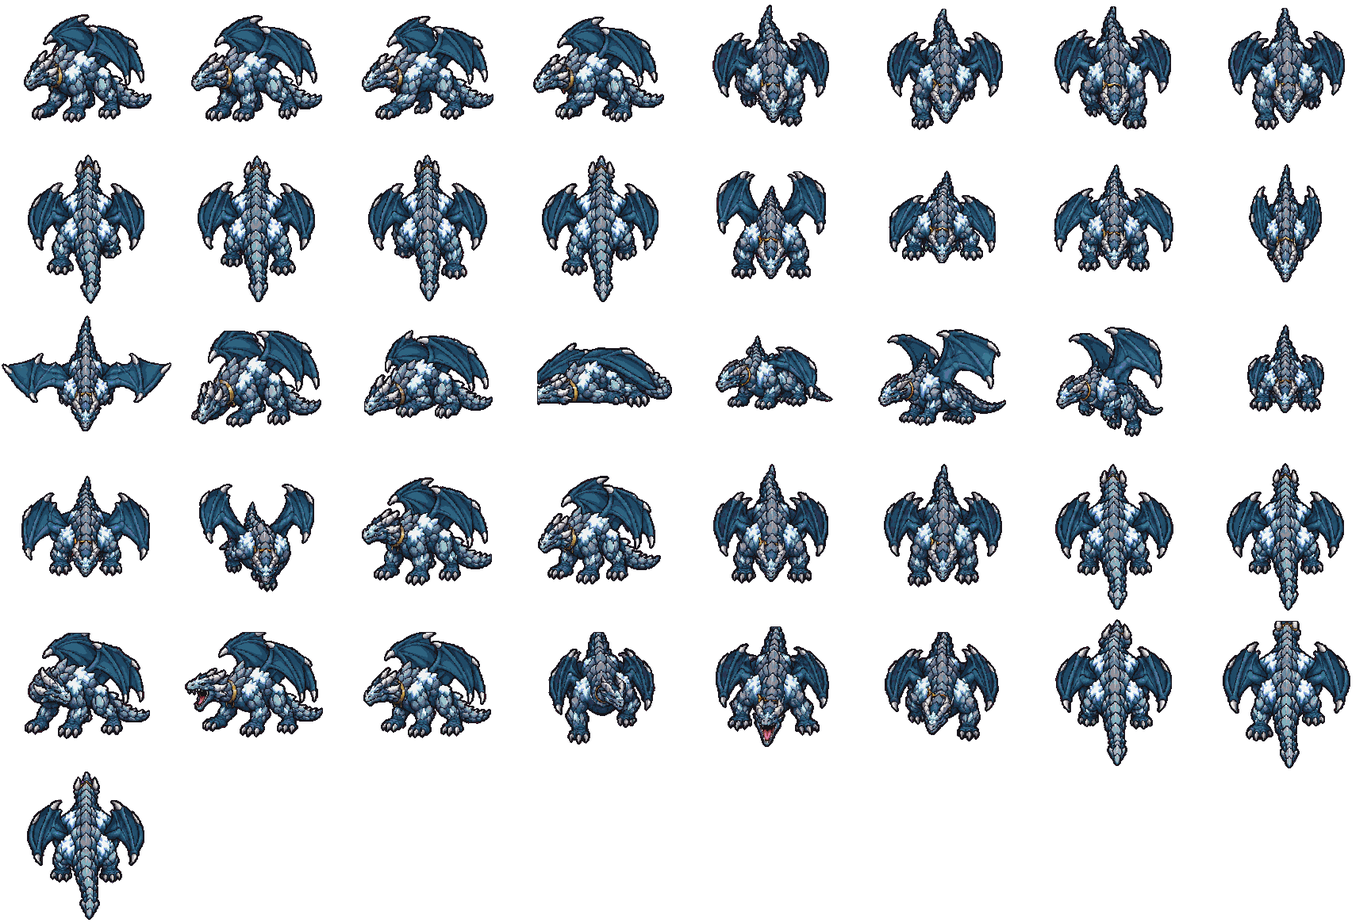
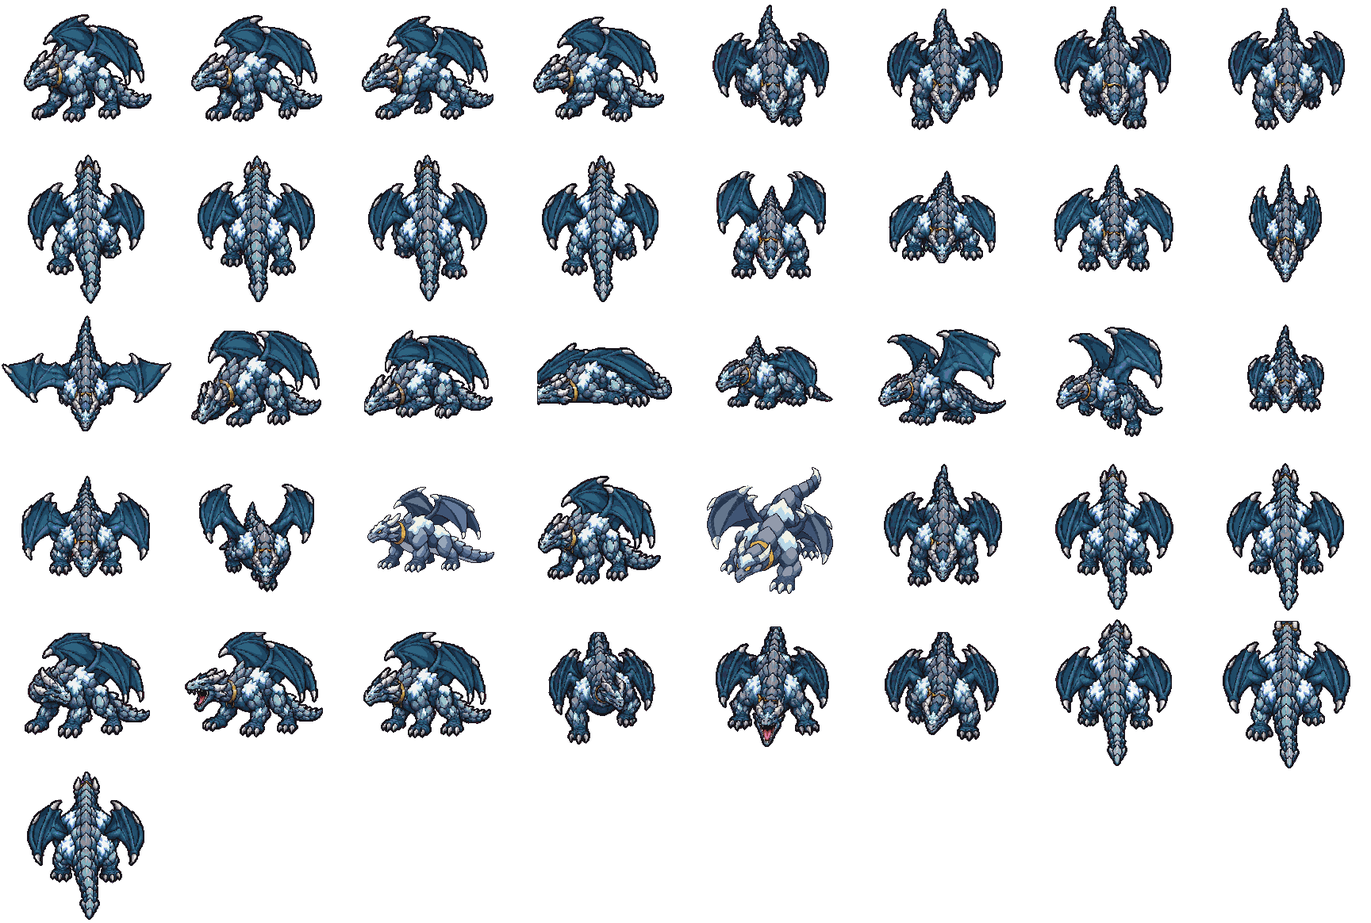
Targi Lublin od grafika (hala z rzeźbą smoka na D20 i obracającymi się szyldami), uproszczone klatki smoka górskiego (stoi bok/przód), anomalie pogodowe 7 km od centrum (piorun, słońce, wichura, komunikaty); poprawki efektu gór z paczki
Claude-Session: https://claude.ai/code/session_0186B56UngdyZ3nbG8b67Ype

Changed region(s): [[0.5, 0.4948, 0.625, 0.6495], [0.25, 0.5258, 0.375, 0.6495]]

diff --git a/src/scenes/Anomalia.ts b/src/scenes/Anomalia.ts
@@ -1,0 +1,110 @@
+import Phaser from 'phaser';
+import { TEX } from '../art';
+import { SKALA_POSTACI } from '../skala';
+import { ANOMALIA as A } from '../content/anomalia';
+import { weather } from '../weather';
+import { grzmot } from '../sfx';
+import { session } from '../quests';
+import type { CityMap } from '../map/CityMap';
+import type { DialogRequest } from './GameScene';
+
+// Anomalie pogodowe (content/anomalia.ts): fires once per login when the hero walks out past A.odKm from the centre.
+// The picture effects are HTML layers and a CSS filter on the game canvas, so the HUD isn't touched by the filter.
+
+/** Login (session nonce) it already fired in. */
+let byloW = -1;
+
+function km(a: { lat: number; lon: number }, b: { lat: number; lon: number }) {
+  const R = 6371, r = Math.PI / 180;
+  const dLat = (b.lat - a.lat) * r, dLon = (b.lon - a.lon) * r;
+  const h = Math.sin(dLat / 2) ** 2 + Math.cos(a.lat * r) * Math.cos(b.lat * r) * Math.sin(dLon / 2) ** 2;
+  return 2 * R * Math.asin(Math.sqrt(h));
+}
+
+export class Anomalia {
+  busy = false;
+  private prev = NaN;
+  private next = 0;
+
+  constructor(private scene: Phaser.Scene, private city: CityMap, private host: { player: Phaser.GameObjects.Sprite; dialog: (r: DialogRequest) => void }) {}
+
+  update(now: number, wolno: boolean) {
+    if (this.busy || now < this.next || byloW === session.nonce) return;
+    this.next = now + 1000;
+    const p = this.host.player;
+    const d = km(this.city.toLatLon(p.x, p.y), A.srodek);
+    const before = this.prev;
+    this.prev = d;
+    // Walking out across the line (a ride or a login far away doesn't count).
+    if (!wolno || Number.isNaN(before) || before >= A.odKm || d < A.odKm || d - before > 1) return;
+    byloW = session.nonce;
+    this.play();
+  }
+
+  /** For tests: play it now. */
+  play() {
+    this.busy = true;
+    const sc = this.scene, p = this.host.player;
+    p.anims.stop();
+    const ex = sc.add.image(p.x, p.y - 24 * SKALA_POSTACI, TEX.exclaim).setDepth(1_300_000);
+    sc.tweens.add({ targets: ex, y: ex.y - 3, duration: 250, yoyo: true, repeat: -1 });
+    const looks: [string, boolean][] = [['side-0', false], ['side-0', true], ['up-0', false], ['down-0', false]];
+    looks.forEach(([f, flip], i) => sc.time.delayedCall(300 + i * 500, () => p.setFrame(f).setFlipX(flip)));
+    const canvas = sc.game.canvas;
+    const warstwa = (css: string) => {
+      const el = document.createElement('div');
+      el.style.cssText = `position:fixed;inset:0;pointer-events:none;z-index:4;opacity:0;${css}`;
+      document.body.append(el);
+      return el;
+    };
+    const ciemno = warstwa('background:#05070d;transition:opacity 1.2s;');
+    const biel = warstwa('background:#fff;');
+    const slonce = warstwa('background:radial-gradient(circle at 70% 20%, rgba(255,236,170,0.55), rgba(255,214,120,0.18) 60%, rgba(255,200,90,0.08));transition:opacity 1s;');
+    const at = (ms: number, f: () => void) => sc.time.delayedCall(ms, f);
+    // 1) The sky goes dark.
+    at(500, () => (ciemno.style.opacity = '0.62'));
+    // 2) Lightning: the picture suddenly black and white, a white flash, black, white again; thunder.
+    at(2000, () => {
+      grzmot();
+      sc.cameras.main.shake(260, 0.006);
+      canvas.style.filter = 'grayscale(1) contrast(3.2) brightness(1.5)';
+      ciemno.style.transition = 'none';
+      ciemno.style.opacity = '0';
+      biel.style.opacity = '0.9';
+    });
+    at(2090, () => (biel.style.opacity = '0'));
+    at(2170, () => (canvas.style.filter = 'grayscale(1) contrast(4) brightness(0.35)'));
+    at(2280, () => ((biel.style.opacity = '0.7'), (canvas.style.filter = 'grayscale(1) contrast(3.2) brightness(1.6)')));
+    at(2380, () => (biel.style.opacity = '0'));
+    // 3) At once the sun.
+    at(2650, () => {
+      canvas.style.transition = 'filter 0.8s';
+      canvas.style.filter = 'brightness(1.22) saturate(1.35)';
+      slonce.style.opacity = '1';
+    });
+    // 4) A moment of the strongest wind (trees, steam and clouds follow weather.wind).
+    const wiatr = weather.wind;
+    at(4200, () => {
+      weather.wind = A.wichura;
+      slonce.style.opacity = '0.4';
+      canvas.style.filter = 'brightness(1.05) saturate(1.1)';
+    });
+    // 5) Calm: back to the real weather.
+    at(6800, () => {
+      weather.wind = wiatr;
+      slonce.style.opacity = '0';
+      canvas.style.filter = '';
+    });
+    at(7900, () => {
+      canvas.style.transition = '';
+      for (const el of [ciemno, biel, slonce]) el.remove();
+      ex.destroy();
+      this.host.dialog({
+        title: A.tytul,
+        text: A.tekst,
+        buttons: [A.przycisk],
+        onChoose: () => this.host.dialog({ title: 'Exp-lore', text: A.drugi, buttons: [A.drugiPrzycisk], onChoose: () => (this.busy = false) }),
+      });
+    });
+  }
+}

diff --git a/src/map/Zabytki.ts b/src/map/Zabytki.ts
@@ -26,6 +26,8 @@ interface Stoi {
   dol: number;
   /** Per picture column: the map y of its lowest painted pixel (−Infinity: an empty column). */
   podstawa: Float32Array;
+  /** Layers on the landmark (sculptures, turning signs), drawn just above it and faded with it. */
+  warstwy: { im: Phaser.GameObjects.Image; klatki: number; fps: number; faza: number }[];
 }
 
 /** px generatora szkieletu na metr (2 na punkt mapy przy 1,92 punktu na metr). */
@@ -87,9 +89,37 @@ export class Zabytki {
     const im = this.scene.add.image(x0, y0, key).setOrigin(0, 0).setScale(f).setDepth(dol);
     const podstawa = new Float32Array(w).fill(-Infinity);
     for (let i = 0; i < w; i++) for (let j = h - 1; j >= 0; j--) if (maska[j * w + i]) { podstawa[i] = y0 + (j + 1) * f; break; }
-    this.stoja.push({ z, im, maska, w, h, f, cx, cy, x0, y0, dol, podstawa });
+    const st: Stoi = { z, im, maska, w, h, f, cx, cy, x0, y0, dol, podstawa, warstwy: [] };
+    this.stoja.push(st);
+    this.warstwy(st);
     // Kawałki pod zabytkiem malujemy jeszcze raz – już bez zwykłego bloku z generatora.
     for (let x = x0; x <= x0 + w * f + 64; x += 64) for (let y = y0; y <= y0 + h * f + 64; y += 64) this.view.redrawAround(x, y);
+  }
+
+  /** Loads and places the landmark's layers (Zabytek.warstwy); animated sheets get their frames cut once. */
+  private warstwy(s: Stoi) {
+    for (const [n, w] of (s.z.warstwy ?? []).entries()) {
+      const key = `zabytek-${s.z.id}-w${n}`;
+      const put = () => {
+        if (!this.scene.sys.isActive() && !this.scene.sys.isPaused()) return;
+        const tex = this.scene.textures.get(key);
+        tex.setFilter(Phaser.Textures.FilterMode.NEAREST);
+        const src = tex.getSourceImage() as HTMLImageElement;
+        let klatki = 1;
+        if (w.klatka) {
+          klatki = Math.max(1, Math.floor(src.width / w.klatka));
+          for (let i = 0; i < klatki; i++) if (!tex.has(`k${i}`)) tex.add(`k${i}`, 0, i * w.klatka, 0, w.klatka, src.height);
+        }
+        const im = this.scene.add.image(s.x0 + w.x * s.f, s.y0 + w.y * s.f, key, w.klatka ? 'k0' : undefined).setOrigin(0, 0).setScale(s.f).setDepth(s.im.depth + 0.01);
+        s.warstwy.push({ im, klatki, fps: w.fps ?? 8, faza: w.faza ?? 0 });
+      };
+      if (this.scene.textures.exists(key)) put();
+      else {
+        this.scene.load.image(key, w.plik);
+        this.scene.load.once(`filecomplete-image-${key}`, put);
+        this.scene.load.start();
+      }
+    }
   }
 
   /**
@@ -118,7 +148,13 @@ export class Zabytki {
 
   /** Bohater za zabytkiem (stopy na północ od jego podstawy, na jego obrazie): obraz przejrzysty. */
   update(hx: number, hy: number) {
+    const t = performance.now() / 1000;
     for (const s of this.stoja) {
+      for (const w of s.warstwy) {
+        if (w.klatki > 1) w.im.setFrame(`k${Math.floor(t * w.fps + w.faza) % w.klatki}`);
+        if (w.im.depth !== s.im.depth + 0.01) w.im.setDepth(s.im.depth + 0.01);
+        if (w.im.alpha !== s.im.alpha) w.im.setAlpha(s.im.alpha);
+      }
       const i = Math.floor((hx - s.x0) / s.f), j = Math.floor((hy - 6 - s.y0) / s.f);
       const kol = i >= 0 && i < s.w ? s.podstawa[i] : -Infinity;
       // In front of the wall in this column (owner 7.10.2026: „zamek niepotrzebnie znika” when walking past its south

diff --git a/src/scenes/GameScene.ts b/src/scenes/GameScene.ts
@@ -89,6 +89,7 @@ import { rideMs, rideText, serverNow, showJourney, syncClock } from '../journey'
 import { SEN } from '../content/demo';
 import { weather, loadWeather, tickWeather, weatherLabel, isWet } from '../weather';
 import { WPLYW_NA_POTWORY, WODNIK, POGODA } from '../content/pogoda';
+import { Anomalia } from './Anomalia';
 import { WeatherFx } from './WeatherFx';
 
 const HEART_DROP_CHANCE = 0.25;
@@ -474,6 +475,8 @@ export class GameScene extends Phaser.Scene {
     this.duelHp = null;
     this.duelCarry = 0;
     this.storyPlace = null;
+    this.anomalia = new Anomalia(this, this.city, { player: this.player, dialog: (r) => this.dialog(r) });
+    (window as unknown as { __anomalia?: Anomalia }).__anomalia = this.anomalia;
     this.story = new Story(this, this.city, {
       player: this.player,
       dialog: (req) => this.dialog(req),
@@ -729,7 +732,7 @@ export class GameScene extends Phaser.Scene {
     if (this.lingerUntil && !lingering) this.endLinger();
     const kd = keyboardDir();
     const moving = kd.x !== 0 || kd.y !== 0;
-    if (lingering || this.story.busy || this.demoRun?.busy) this.player.move(0, 0, now);
+    if (lingering || this.story.busy || this.demoRun?.busy || this.anomalia?.busy) this.player.move(0, 0, now);
     else this.player.move(moving ? kd.x : touchInput.x, moving ? kd.y : touchInput.y, now);
     if (this.player.vel.x || this.player.vel.y) {
       // What the ground is (content/podloze.ts): roads full speed, paths, grass, forest, sand slower.
@@ -766,6 +769,7 @@ export class GameScene extends Phaser.Scene {
     this.moveActor(this.player, dt);
     session.stats.m += Math.hypot(this.player.x - bx, this.player.y - by) / PX_PER_M;
     this.story.update(dt, this.player.x !== bx || this.player.y !== by);
+    if (!demo.on) this.anomalia?.update(now, this.player.x !== bx || this.player.y !== by);
     // Hiding in the bushes: see-through under trees.
     const hidden = this.city.areaKindsAt(this.player.x, this.player.y + FEET.dy).some((k) => HIDE_IN.has(k));
     // Protected after a fresh start: the hero blinks.
@@ -780,7 +784,7 @@ export class GameScene extends Phaser.Scene {
       this.toast('Dodatkowe serduszko z mikstury znikło.', 2000);
       this.emitHud();
     }
-    if (consumeAttack() && !lingering && !this.story.busy && !this.demoRun?.busy) {
+    if (consumeAttack() && !lingering && !this.story.busy && !this.demoRun?.busy && !this.anomalia?.busy) {
       // A mouse click swings towards where it clicked (the hero turns there).
       this.clickWorld = null;
       if (attackAim) {
@@ -1865,6 +1869,7 @@ export class GameScene extends Phaser.Scene {
   }
 
   private pociagi?: Pociagi;
+  private anomalia?: Anomalia;
   /** Where the last mouse click landed in the world (null for taps and keys). */
   private clickWorld: { x: number; y: number } | null = null;
 

diff --git a/src/content/zabytki.ts b/src/content/zabytki.ts
@@ -22,6 +22,11 @@ export interface Zabytek {
   sciany: number;
   /** Przezroczystość, gdy bohater stoi za zabytkiem. */
   przeswit: number;
+  /**
+   * Warstwy na budynku (rzeźby, obracające się szyldy): plik, lewy-górny róg względem obrazu (px obrazu), dla animacji
+   * szerokość klatki (arkusz poziomy), klatek na sekundę i przesunięcie fazy (klatki).
+   */
+  warstwy?: { plik: string; x: number; y: number; klatka?: number; fps?: number; faza?: number }[];
 }
 
 export const ZABYTKI: Zabytek[] = [
@@ -48,5 +53,24 @@ export const ZABYTKI: Zabytek[] = [
     przesun: [-9, -57],
     sciany: 0,
     przeswit: 0.35,
+  },
+  {
+    // Targi Lublin (Dworcowa 11), hale A, B, C (paczka „targi_lublin_i_smok” 7.10.2026): obraz dokładnie na masce szkieletu
+    // (ściany w dół o 16 px i w prawo o 0,35 – podniesiony jak zamek); na dachu rzeźba smoka na złotej kości D20
+    // i trzy obracające się szyldy (StarFest, Targi, D20), 12 klatek po 64 px, 8 kl./s, fazy 0/4/8.
+    id: 'targi_lublin',
+    mapa: 'lublin',
+    budynek: 'Hala C',
+    plik: 'swiat/zabytki/targi/targi_lublin.png',
+    naMapie: [14618, 12954.5],
+    przesun: [-5.6, -16],
+    sciany: 0,
+    przeswit: 0.35,
+    warstwy: [
+      { plik: 'swiat/zabytki/targi/rzezba_smok_d20.png', x: 319, y: 203 },
+      { plik: 'swiat/zabytki/targi/obrot_starfest_12klatek.png', x: 152, y: 70, klatka: 64, fps: 8, faza: 0 },
+      { plik: 'swiat/zabytki/targi/obrot_targi_12klatek.png', x: 663, y: 64, klatka: 64, fps: 8, faza: 4 },
+      { plik: 'swiat/zabytki/targi/obrot_d20_12klatek.png', x: 433, y: 328, klatka: 64, fps: 8, faza: 8 },
+    ],
   },
 ];

diff --git a/src/sfx.ts b/src/sfx.ts
@@ -58,3 +58,32 @@ export function pipe(freq: number, ms = 420) {
   o.start(t);
   o.stop(t + ms / 1000 + 0.05);
 }
+
+/** A thunderclap: a burst of low, rumbling noise that cracks first and rolls away. */
+export function grzmot() {
+  const a = audio();
+  if (!a) return;
+  const t = a.currentTime;
+  const len = 2.6;
+  const buf = a.createBuffer(1, Math.floor(a.sampleRate * len), a.sampleRate);
+  const d = buf.getChannelData(0);
+  let last = 0;
+  for (let i = 0; i < d.length; i++) {
+    // Brown-ish noise: random steps, smoothed, louder at the crack.
+    last = (last + (Math.random() * 2 - 1) * 0.08) * 0.985;
+    d[i] = last * 6;
+  }
+  const src = a.createBufferSource();
+  src.buffer = buf;
+  const lp = a.createBiquadFilter();
+  lp.type = 'lowpass';
+  lp.frequency.setValueAtTime(1800, t);
+  lp.frequency.exponentialRampToValueAtTime(160, t + 0.6);
+  const gain = a.createGain();
+  gain.gain.setValueAtTime(0.0001, t);
+  gain.gain.exponentialRampToValueAtTime(0.5, t + 0.03);
+  gain.gain.exponentialRampToValueAtTime(0.0001, t + len);
+  src.connect(lp).connect(gain).connect(a.destination);
+  src.start(t);
+  src.stop(t + len);
+}

diff --git a/src/content/anomalia.ts b/src/content/anomalia.ts
@@ -1,0 +1,14 @@
+// Anomalie pogodowe (właściciel 7.10.2026): gdy bohater odejdzie dalej niż `odKm` od skrzyżowania Głębokiej z Muzyczną
+// (środek Lublina), raz na wejście do gry: „!”, ściemnienie, piorun (ekran nagle czarno-biały), słońce, chwila wichury
+// i powrót do prawdziwej pogody – potem dwa komunikaty.
+export const ANOMALIA = {
+  srodek: { lat: 51.23905, lon: 22.55227 },
+  odKm: 7,
+  tytul: '❗ Anomalie pogodowe',
+  tekst: 'Anomalie pogodowe... Chyba lepiej wrócić do miasta.',
+  przycisk: 'Hmm…',
+  drugi: 'Gra jest wciąż w przygotowaniu. Exp-loruj śmiało, ale poza Lublinem zadań jest na razie znacznie mniej.',
+  drugiPrzycisk: 'Rozumiem',
+  /** Wiatr podczas wichury (m/s). */
+  wichura: 24,
+};

diff --git a/scripts/smok-podmien.py b/scripts/smok-podmien.py
@@ -1,0 +1,32 @@
+#!/usr/bin/env python3
+"""Wkleja uproszczone klatki smoka górskiego od grafika (zamówienie 20, już w rozmiarze gry: 220×200 na magencie)
+w arkusz public/swiat/smoki/smok_gorski.png w miejsce klatek o tych samych nazwach, z tym samym zaczepieniem co reszta
+(środek masy sylwetki w punkcie `srodek` komórki). Uruchamiać po scripts/smok-gorski.py (który odtwarza stary arkusz).
+Użycie: python3 scripts/smok-podmien.py
+"""
+import glob, json, os
+import numpy as np
+from PIL import Image
+
+ZR = 'scripts/smoki-zrodla/proste'
+ARK = 'public/swiat/smoki/smok_gorski.png'
+meta = json.load(open('public/swiat/smoki/smok_gorski.json'))
+CW, CH = meta['komorka']; bx, by = meta['srodek']
+ark = Image.open(ARK).convert('RGBA')
+kol = ark.width // CW
+for f in sorted(glob.glob(f'{ZR}/smok_gorski_*.png')):
+    nazwa = os.path.basename(f)[len('smok_gorski_'):-4]
+    if nazwa not in meta['klatki']: continue
+    a = np.asarray(Image.open(f).convert('RGBA')).copy()
+    mag = (a[..., 0] == 255) & (a[..., 1] == 0) & (a[..., 2] == 255)
+    a[mag] = 0
+    ys, xs = np.where(a[..., 3] > 0)
+    kx, ky = xs.mean(), ys.mean()
+    i = meta['klatki'][nazwa]
+    cx, cy = (i % kol) * CW, (i // kol) * CH
+    ark.paste((0, 0, 0, 0), (cx, cy, cx + CW, cy + CH))
+    kom = Image.new('RGBA', (CW, CH))
+    kom.alpha_composite(Image.fromarray(a), (int(round(bx - kx)), int(round(by - ky))))
+    ark.paste(kom, (cx, cy))
+    print('podmieniono', nazwa, 'długość', xs.max() - xs.min() + 1)
+ark.save(ARK, optimize=True)

diff --git a/CLAUDE.md b/CLAUDE.md
@@ -168,3 +168,5 @@
 - After the demo (owner 7.10.2026): „Zacznij własną przygodę” sets localStorage `exp-po-demo` (PO_DEMO_KLUCZ) and opens `#nowa`; the new-character form then has no start address – the hero starts at PO_DEMO_START (content/demo.ts: the square in front of Targi Lublin, Dworcowa 11, 51.23471/22.56526); the flag is cleared once the character is made. Targi Lublin skeleton (halls A, B, C from OSM) for the artist: `python3 scripts/zabytki-szkielety.py targi_lublin` → docs/paczka-dla-artysty/21_targi_lublin/ + ZAMOWIENIE_21_targi_lublin.md (the script takes ids to build only some, entries may name their own `katalog`).
 - Paving mosaics (bug report 60, accepted by the owner 7 Oct 2026): `src/content/mozaiki.ts` MOZAIKI (map, lat/lon centre, width in m, clockwise angle, pixel rows, cobble size) + `src/map/mozaika09.ts` `malujMozaike` (worker, after fields, before tracks: each pixel turned back into the picture frame, cobbles on a turned grid with their own shade and darker joints, colour mixed ~2:1 with the paving under it, sand drifts from world noise and stronger at the edges, ragged edges, no outline – owner: „bardziej rozmyte, przysyp piaskiem, nie naklejka”) – MapRenderer passes those near the chunk as `Zlecenie.mozaiki`; market stalls keep 30 px off them (`naMozaice`). The Targi Lublin logo (`src/content/logoTargi.ts`, from the owner's picture, green/red, no lettering) lies 75 m wide (owner: „znacznie większe”) over the parking in front of hall A, along its longer edge (37.6°). Dobra Cukiernia (sz_slodki_trop goal, sz_cukiernia) moved to 51.24783, 22.56338 (owner: on Krakowskie Przedmieście, not behind the building on Zielona).
 - Mountain look only in real mountains (owner, 7 Oct 2026: parallax by the railway in Zakopane's centre looked bad): GoryFiltr `measure` (every 500 ms, at once after a jump) sets a strength 0..1 = relief ramp × building damping. Relief = 5th–95th percentile spread of 96 heights on 6 rings within GORY.rzezbaPromienM (600 m), ramped rzezbaOdM 80 → rzezbaPelnaM 220 m (Zakopane sample: centre 30–50 m, Gubałówka slope 260, Kuźnice 180, Kasprowy 280); building cover = footprint share of a zabudowaPromienM (80 m) circle (`poleBudynku`, shoelace, cached), damping from zabudowaOd 4 % to zabudowaPelna 12 % down to zabudowaZostaje (0). Eased over przejscieS 2.5 s; the shader's uMoc scales the blur mix and fog. Same day (owner: forest-slope parallax made him feel sick; the 10 m layer edge on Wawel looked like a gash): blur is continuous in dh (no layer steps), GORY.rozmycie 0.5 scales its radius; parallax only on sharp rises – its own ramp paralaksaOdM 200 → paralaksaPelnaM 400 m, × GORY.paralaksa 0.7 (was 1; owner: „musi być, ale faktycznie w górach”); ground lower than the hero gets a faint dark haze (przyciemnienie 5 %, up to 1.5× deep down, fading in over przyciemnienieSzerM 6 m, wherever local relief ≥ przyciemnienieOdM 5 m, also in towns). The filter is inactive only when there is neither strength nor haze. Player toggle „⛰ Efekt gór” in the game menu (localStorage `exp-efekt-gor`, ustawieniaGracza.ts). Admin knobs gory_* (POKRETLA group „Góry (paralaksa)”). `window.__gory.info` = {rzezba, zabudowa, cel, moc} for tests.
+- Targi Lublin picture (pack „targi_lublin_i_smok_dla_programisty”, 7 Oct 2026): `public/swiat/zabytki/targi/` – targi_lublin.png (854×617, exactly on the skeleton's mask) as a ZABYTKI entry (`naMapie` = the skeleton's rog_punkty_mapy, `przesun` [−5.6, −16] = lifted by the 16 px walls like the castle), plus `warstwy` (Zabytki.warstwy: a static dragon-on-D20 sculpture and three turning signs StarFest/Targi/D20, horizontal 12×64 px sheets cut into frames `k<n>`, 8 fps, phases 0/4/8; depth = landmark + 0.01, alpha follows it). The artist's notes/preview: docs/paczka-dla-artysty/21_targi_lublin/od_grafika/. Simplified mountain dragon (order 20, 2 accepted trial frames 220×200 on magenta, scripts/smoki-zrodla/proste/): `scripts/smok-podmien.py` pastes them over `stoi_bok_1`/`stoi_przod_1` in public/swiat/smoki/smok_gorski.png with the same centre-of-mass anchor (run it after smok-gorski.py); the other frames are still the detailed ones until the artist redraws them.
+- Weather anomaly (owner 7 Oct 2026; content/anomalia.ts, scenes/Anomalia.ts): once per login, when the hero walks out past ANOMALIA.odKm (7 km) from the Głęboka/Muzyczna crossing (lat/lon distance, so on world maps too; jumps > 1 km/s and rides don't count; not in the demo): „!” and looking around like the dragon's shadow, the sky darkens (HTML layer), lightning (the game canvas CSS-filtered black-and-white, white flashes, `grzmot()` in sfx.ts, a shake), then sunshine (warm layer + brighter filter), a moment of the strongest wind (weather.wind = 24 for 2.6 s – trees/steam/clouds follow it), back to the real weather, then „Anomalie pogodowe... Chyba lepiej wrócić do miasta.” and „Gra jest wciąż w przygotowaniu. Exp-loruj śmiało, ale poza Lublinem zadań jest na razie znacznie mniej.” The hero can't move or swing meanwhile (`anomalia.busy`); `window.__anomalia.play()` for tests.

diff --git a/docs/paczka-dla-artysty/21_targi_lublin/od_grafika/DLA_PROGRAMISTY.md b/docs/paczka-dla-artysty/21_targi_lublin/od_grafika/DLA_PROGRAMISTY.md
@@ -1,0 +1,47 @@
+# Targi Lublin i uproszczony smok — podmiana grafiki
+
+## 1. Targi Lublin
+
+`budynek/targi_lublin.png` to przezroczysty PNG 854×617. Obrys alfa jest dokładnie maską dostarczonego szkieletu. Budynek został przerysowany generatorem, przeskalowany nearest-neighbor i dopasowany do tej maski. Dachy i ściany mają artystyczną interpretację; geometria wewnętrznych podziałów nie jest modelem pomiarowym.
+
+Zastąpić proceduralne hale A/B/C tym jednym obrazem. Nie rysować pod nim drugi raz starych dachów ani ścian. Pozostawić dotychczasową geometrię kolizji i sortowania obiektu.
+
+Położenie z oryginalnego `budynek/targi_lublin.json`:
+
+- lewy górny róg w pikselach świata: **[29236, 25909]**;
+- lewy górny róg w punktach mapy: **[14618, 12954.5]**;
+- rozmiar obrazu 1×: **854×617**.
+
+Wybrać jeden układ współrzędnych zgodny z istniejącym rendererem. Nie używać tych dwóch pozycji jednocześnie i nie mnożyć ponownie obrazu przez 4. Wyłączyć wygładzanie tekstur.
+
+### Warstwy na dachu
+
+Wszystkie poniższe pozycje są przesunięciami lewego górnego rogu warstwy względem lewego górnego rogu budynku w pikselach obrazu 1×. Rysować je po budynku w tym samym układzie transformacji. Nie traktować ich jako nowych obiektów kolizji.
+
+| Warstwa | Plik | Pozycja x,y | Rozmiar |
+| --- | --- | --- | --- |
+| Rzeźba smoka na złotej D20 | `rzezba_smok_d20.png` | 319,203 | 108×136 |
+| StarFest — symbol, bez napisu | `obrot_starfest_12klatek.png` | 152,70 | klatka 64×64 |
+| Targi Lublin — symbol, bez napisu | `obrot_targi_12klatek.png` | 663,64 | klatka 64×64 |
+| Złota D20 | `obrot_d20_12klatek.png` | 433,328 | klatka 64×64 |
+
+Arkusze obrotu są poziome, **768×64**, po **12 klatek 64×64**, bez odstępów. Odczytać klatkę z prostokąta `[numer*64, 0, 64, 64]`. Odtwarzać w pętli, 8 klatek/s, z przesunięciami fazy 0/4/8. Szczegóły są też w `warstwy.json`.
+
+To animacja obrotu płaskich, dwustronnych szyldów wokół pionowej osi, wykonana przez zmianę szerokości i pokazanie odwrotnej strony symbolu. Nie jest to pełny obrót przestrzennej kostki 3D. Rzeźba smoka pozostaje nieruchoma. `znak_*.png` są nieruchomymi wariantami. Podgląd PNG/GIF nie jest zasobem do podmiany: ma już złożone warstwy i magentę.
+
+## 2. Smok górski
+
+Podmienić tylko pliki o identycznych nazwach:
+
+- `smok_gorski/smok_gorski_stoi_bok_1.png`;
+- `smok_gorski/smok_gorski_stoi_przod_1.png`.
+
+Obie klatki mają **220×200**, 15 wspólnych kolorów smoka i magentę **#FF00FF**. Usunąć wyłącznie dokładną magentę przy imporcie lub w dotychczasowym mechanizmie chroma key. Przednia klatka ma zaakceptowany lekki skos, przesunięte łapy i skrzydła w różnej perspektywie. Nie obracać jej dodatkowo programowo.
+
+Te klatki są już w docelowym rozmiarze. Nie przepuszczać ich przez poprzednie zmniejszenie klatek 512 px. Jeżeli renderer wyznacza skalę lub punkt zaczepienia z wymiarów starego pliku, ustawić wyjątek dla tych dwóch klatek. Porównać punkt zaczepienia stóp z obecnym rendererem — kod gry nie był dołączony i nie mogłem zweryfikować jego pivotu.
+
+**Zakres tej paczki: dwie zaakceptowane klatki próbne, nie komplet uproszczonych animacji.** Nie nadpisywać nimi chodu, gryzienia, startu, lotu, lądowania, śmierci ani widoku z tyłu. Pozostałe klatki i efekty uderzeń z `koziol_i_smok_gorski` pozostają aktualne. Mieszanie uproszczonych klatek ze starymi może powodować zmianę stylu przy przejściu do ruchu; pełna zamiana wymaga przerysowania reszty animacji.
+
+## Kontrola po integracji
+
+Sprawdzić dopasowanie narożników Targów do mapy i brak podwójnych ścian, stałą pozycję rzeźby oraz obrót szyldów bez ruchu podstaw. Dla smoka sprawdzić skalę około 160 px długości z boku, chroma key, punkt zaczepienia i przejście do istniejącego chodu. Kamera/zoom mają skalować wszystkie warstwy wspólnie z wyłączonym wygładzaniem.
